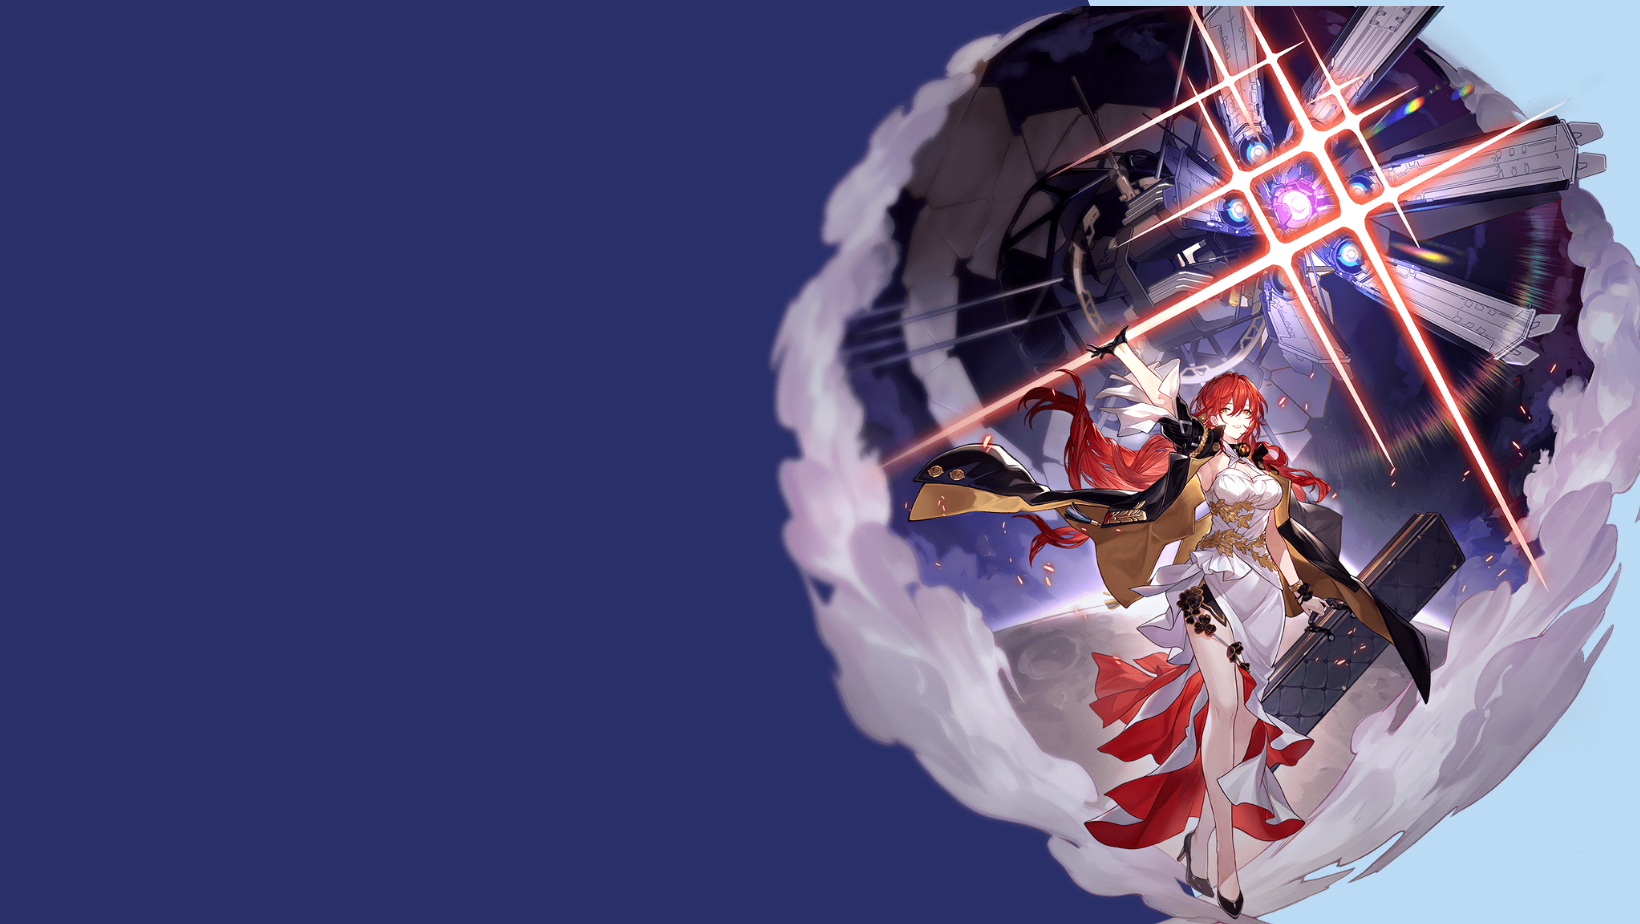
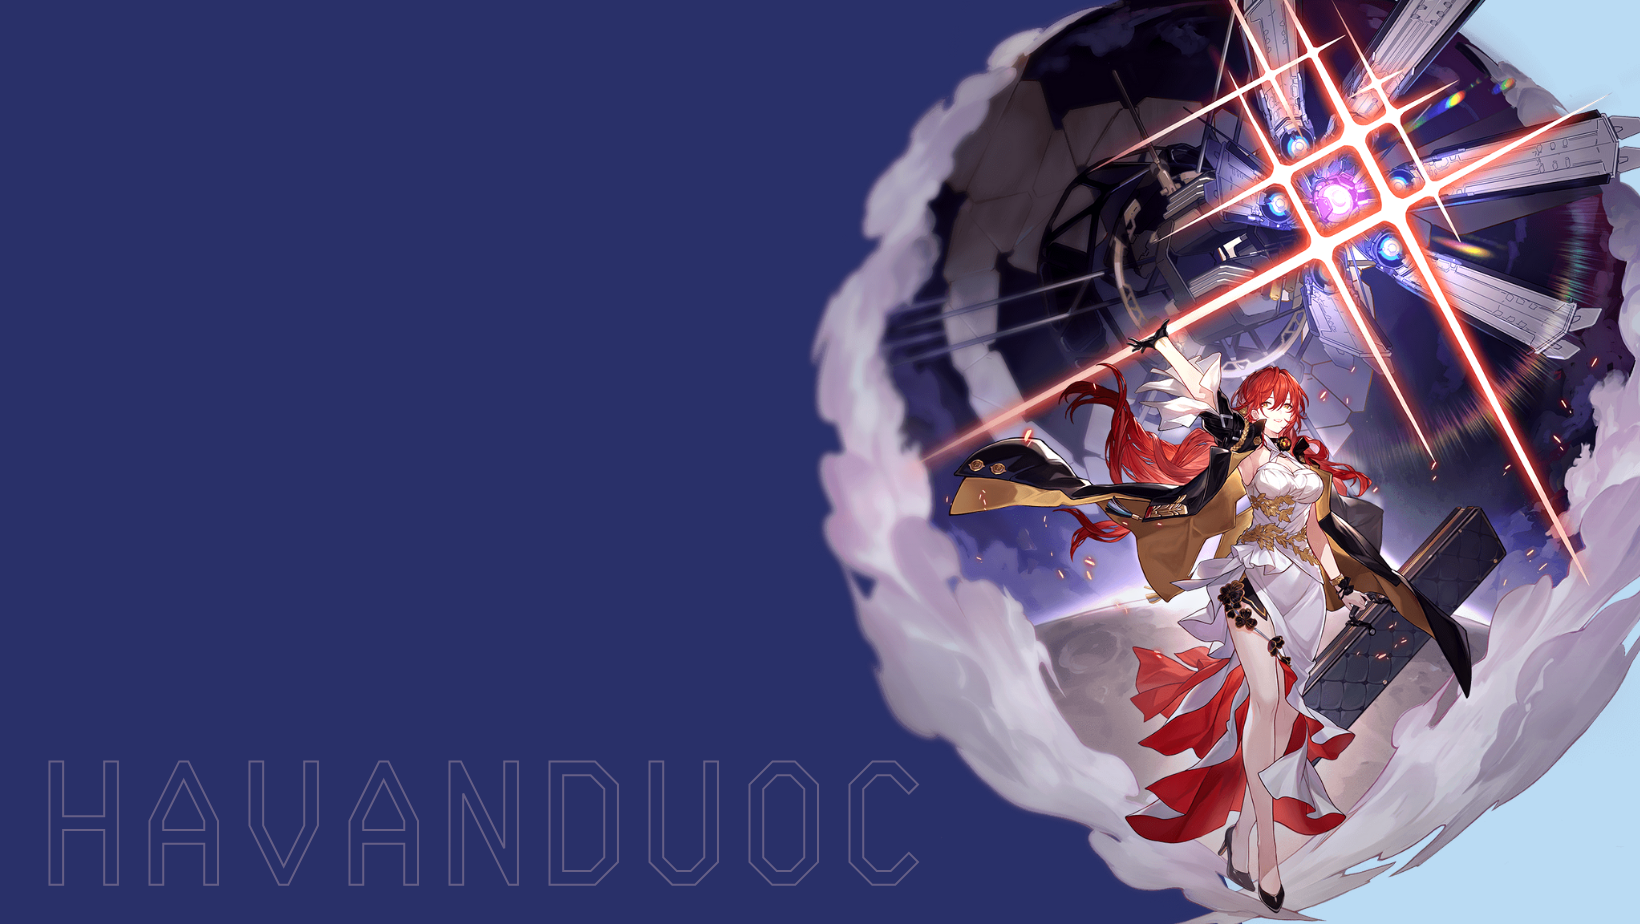
chỉnh sửa background

diff --git a/index.html b/index.html
@@ -77,7 +77,7 @@
 
                 <div class="left">
                     <div class="avatar">
-                        <img src="..\images\avatar.png">
+                        <img src="../images/avatar.png">
                     </div>
                 </div>
 
